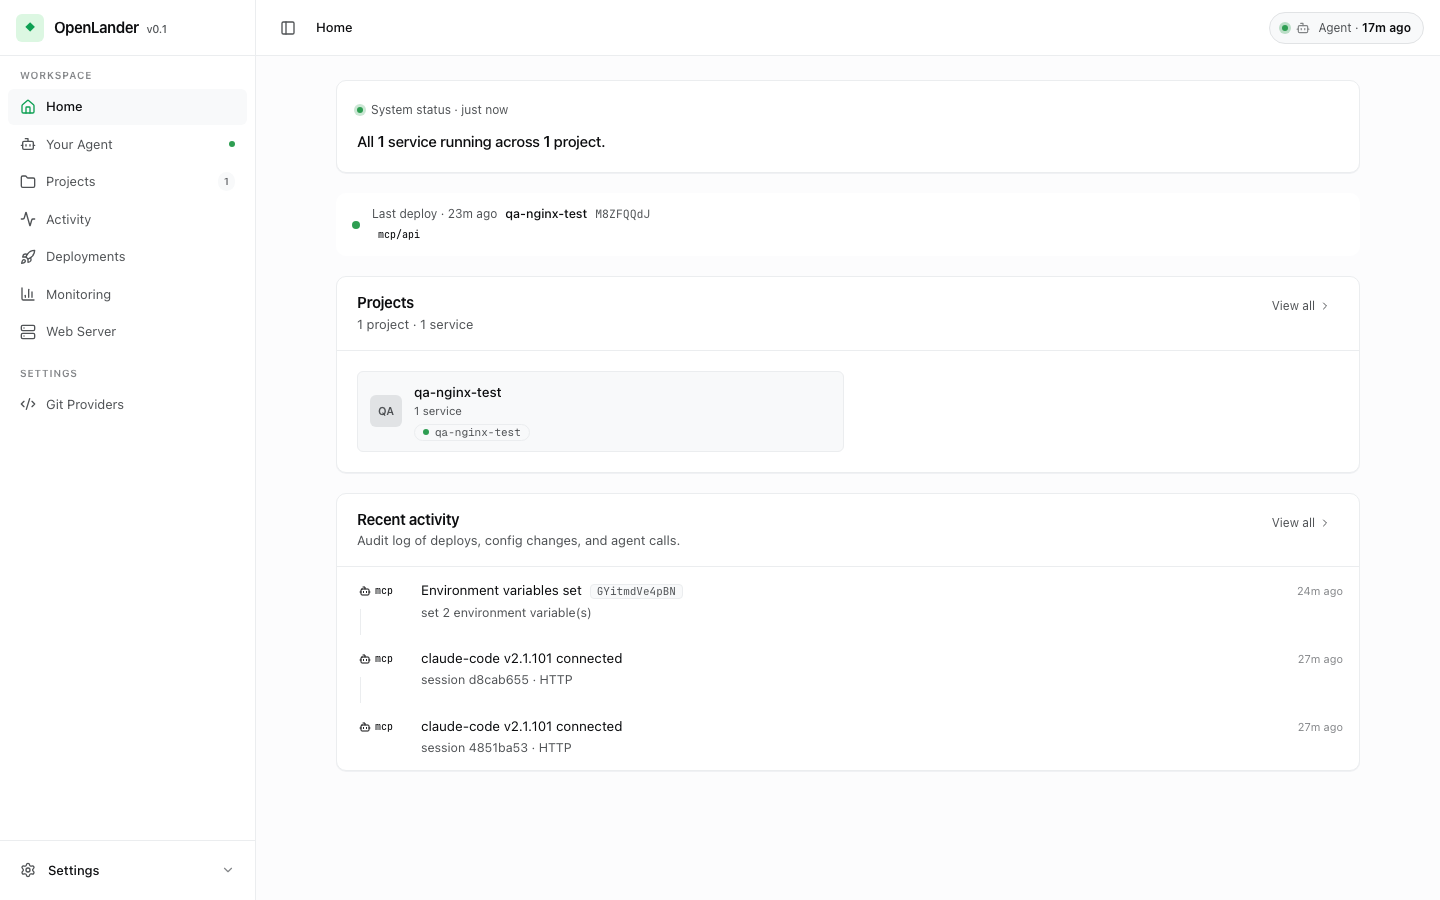
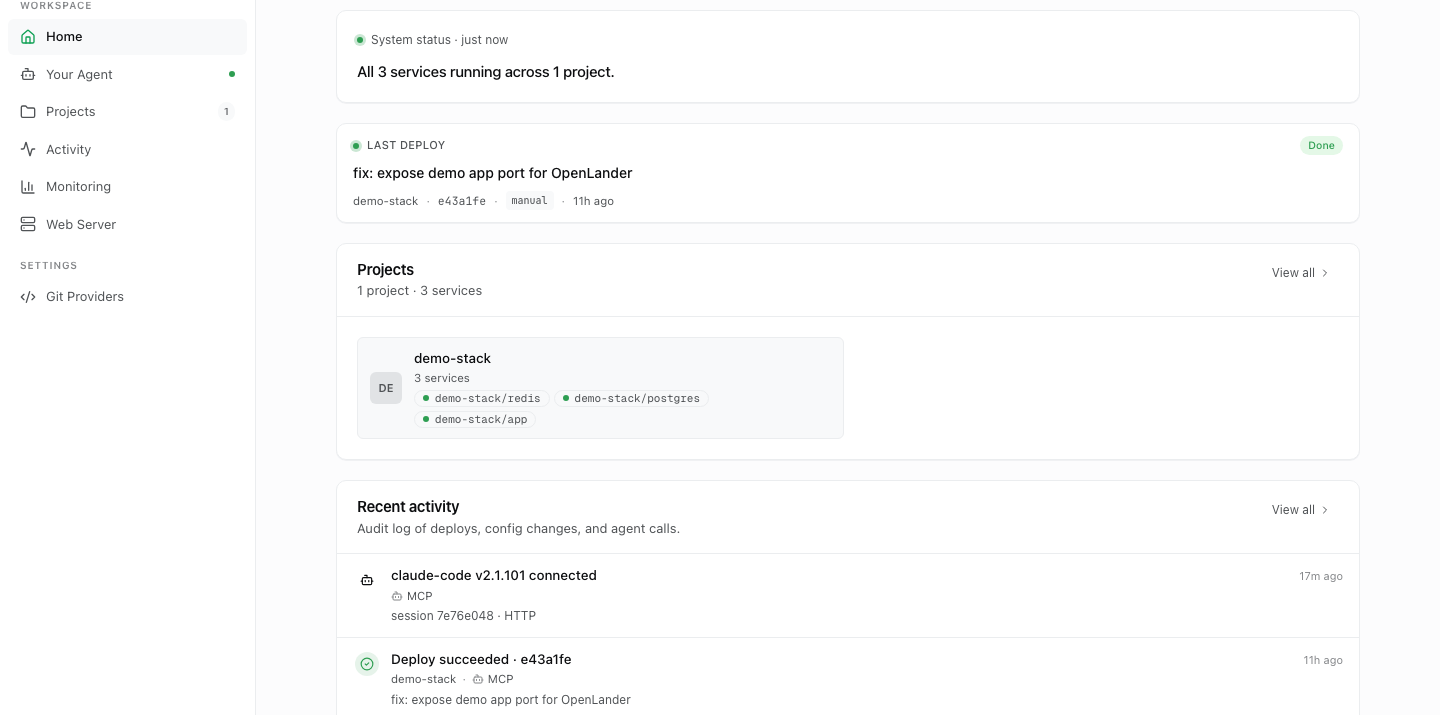
docs: refresh README screenshots

diff --git a/README.md b/README.md
@@ -61,6 +61,8 @@ agents can read, with risky actions held behind explicit human approval.
 
 <p align="center">
   <img src="docs/assets/your-agent-setup.png" alt="OpenLander MCP agent setup — connect Claude, Cursor, Windsurf, and more" width="920" />
+  <br />
+  <sub>Connect your AI client once, then let it deploy, inspect logs, and diagnose services through MCP.</sub>
 </p>
 
 ---
@@ -136,6 +138,8 @@ common single-service case.
 
 <p align="center">
   <img src="docs/assets/home-dashboard.png" alt="OpenLander dashboard — projects, deployments, and agent activity at a glance" width="920" />
+  <br />
+  <sub>The dashboard stays focused on what the agent did: project health, latest deploys, service topology, and audit activity.</sub>
 </p>
 
 ---
